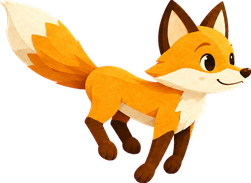
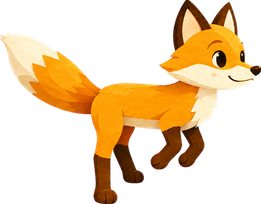
Foxy gallop: one scale for the whole cycle (the tucked mid-air frame no longer shrinks), near-standing frame removed, longer stride so the legs bound instead of scurry

diff --git a/tools/build_hero_frames.py b/tools/build_hero_frames.py
@@ -62,6 +62,13 @@ write('explorer',boy)
 F2=SRC/'fox2'
 fm=list(grid(F2/'moves.png'))
 fh=height(fm[0])
-fox=[pose(matched(key(Image.open(F2/f'run_{i}.png')),fh*0.95),'run') for i in range(8)]
+# One scale for the whole gallop (median frame height): per-frame height
+# matching shrank the tucked mid-air pose. Frame 2 is near-standing and
+# breaks the gallop, so the cycle leaves it out.
+raw=[key(Image.open(F2/f'run_{i}.png')) for i in range(8) if i!=2]
+k_run=fh*0.95/float(np.median([height(a) for a in raw]))
+def scaled(a,k):
+    im=Image.fromarray(a);return np.asarray(im.resize((round(im.width*k),round(im.height*k)),Image.LANCZOS))
+fox=[pose(scaled(a,k_run),'run') for a in raw]
 fox+=[pose(fm[0],'idle'),pose(fm[1],'idle'),pose(fm[2],'takeoff'),pose(fm[3],'rise'),pose(fm[3],'fall'),pose(fm[4],'land'),pose(fm[5],'dig'),pose(fm[6],'happy'),pose(fm[7],'sleep')]
 write('fox',fox)
